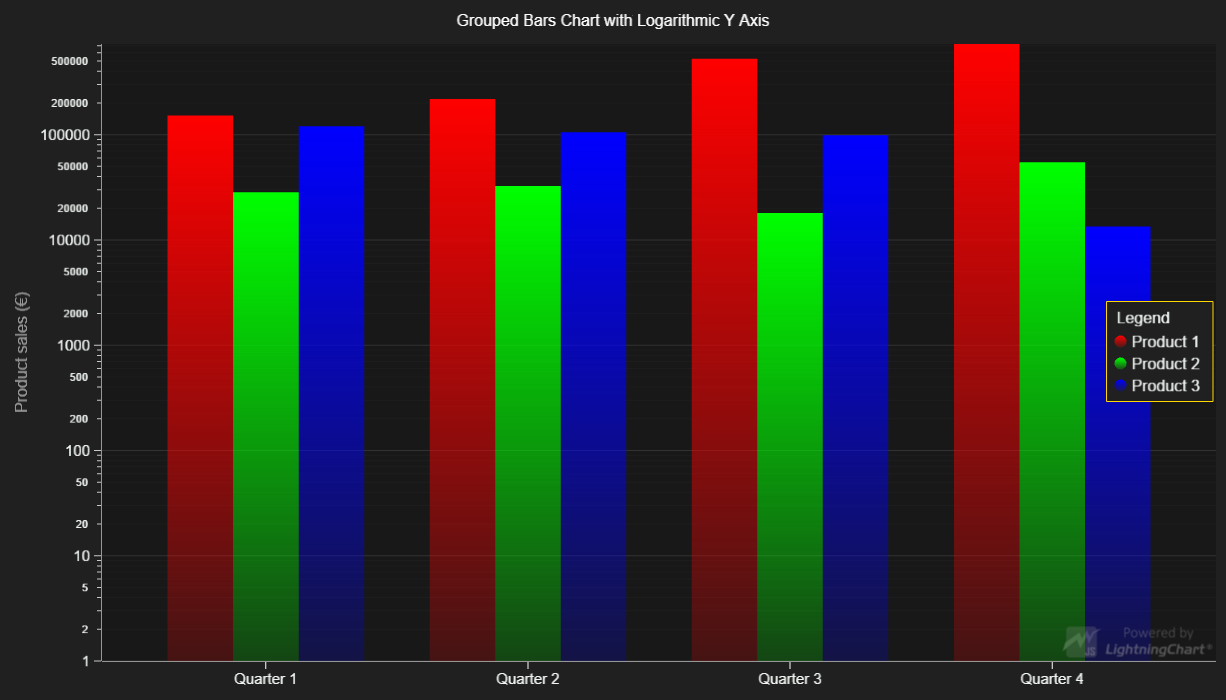
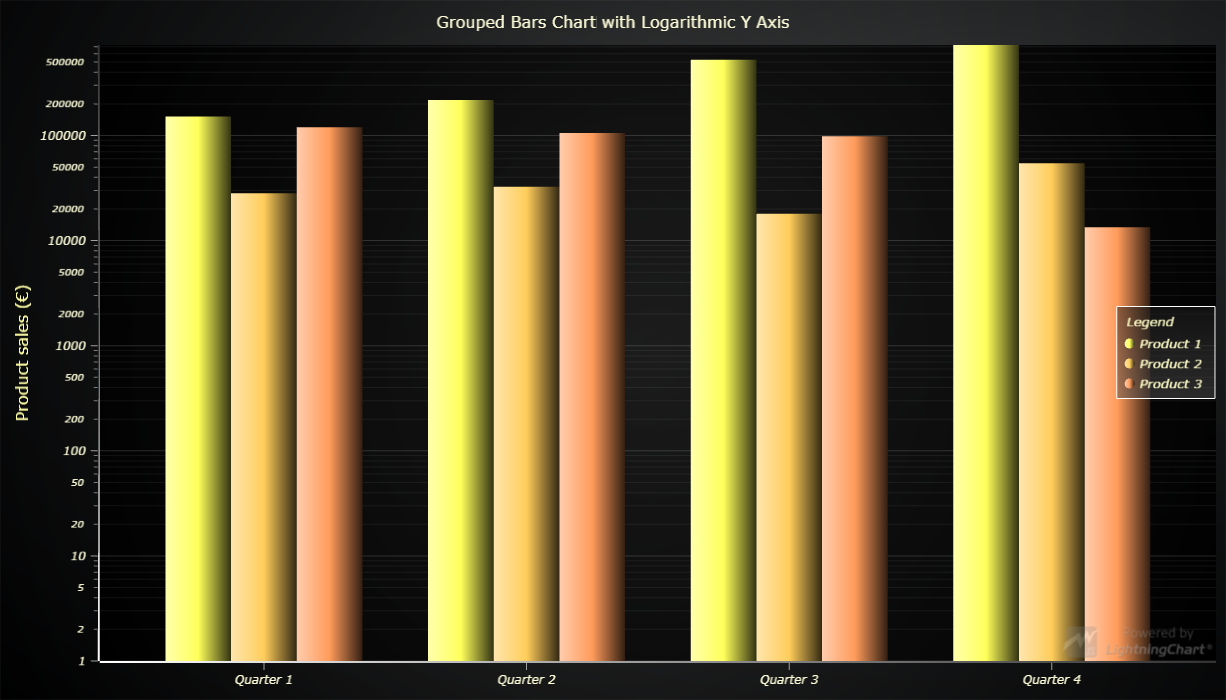
Update LCJS version

diff --git a/src/index.js b/src/index.js
@@ -7,14 +7,11 @@ const lcjs = require('@arction/lcjs')
 // Extract required parts from LightningChartJS.
 const {
     lightningChart,
-    LinearGradientFill,
-    ColorHSV,
     AutoCursorModes,
     UIOrigins,
     LegendBoxBuilders,
     AxisTickStrategies,
     emptyLine,
-    emptyFill,
     UIElementBuilders,
     Themes
 } = lcjs
@@ -40,7 +37,7 @@ const productsCount = groupedBarsValues.productNames.length
 // : Plot a Bar Chart using Rectangle Series :
 
 const chart = lightningChart().ChartXY({
-    // theme: Themes.dark
+    // theme: Themes.darkGold
     // Configure Y Axis as logarithmic.
     defaultAxisY: {
         type: 'logarithmic',
@@ -71,17 +68,7 @@ const yAxis = chart.getDefaultAxisY()
 
 // Create one Rectangle Series for each PRODUCT.
 const allProductsSeries = groupedBarsValues.productNames.map((productName, iProduct) => {
-    const color = ColorHSV( iProduct * 120 )
     const series = chart.addRectangleSeries()
-        .setDefaultStyle((figure) => figure
-            .setFillStyle(new LinearGradientFill({
-                angle: 0,
-                stops: [
-                    { offset: 0, color: color.setA(50) },
-                    { offset: 1, color: color },
-                ]
-            }))
-        )
         .setName(productName)
         .setCursorResultTableFormatter((builder, _, figure) => builder
             .addRow(`${productName} sales`)
@@ -127,4 +114,9 @@ xAxis.setInterval(-edgesMarginX, quartersCount * productsCount * barWidthX + (qu
 
 // Add LegendBox.
 const legend = chart.addLegendBox(LegendBoxBuilders.VerticalLegendBox)
+    // Dispose example UI elements automatically if they take too much space. This is to avoid bad UI on mobile / etc. devices.
+    .setAutoDispose({
+        type: 'max-width',
+        maxWidth: 0.30,
+    })
 legend.add(chart)

diff --git a/webpack.config.js b/webpack.config.js
@@ -69,7 +69,8 @@ module.exports = {
         }),
         new CopyWebpackPlugin({
             patterns: [
-                { from: './assets/**/*', to: './examples/assets', flatten: true, noErrorOnMissing: true }
+                { from: './assets/**/*', to: './examples/assets', flatten: true, noErrorOnMissing: true },
+                { from: './node_modules/@arction/lcjs/dist/resources', to: 'resources', noErrorOnMissing: true },
             ]
         })
     ]

diff --git a/README.md b/README.md
@@ -55,13 +55,13 @@ Direct developer email support can be purchased through a [Support Plan][4] or b
 © Arction Ltd 2009-2020. All rights reserved.
 
 
-[XY cartesian chart]: https://www.arction.com/lightningchart-js-api-documentation/v3.0.1/classes/chartxy.html
-[Linear Gradient Fill style]: https://www.arction.com/lightningchart-js-api-documentation/v3.0.1/classes/lineargradientfill.html
-[Color HSV factory]: https://www.arction.com/lightningchart-js-api-documentation/v3.0.1/globals.html#colorhsv
-[Autocursor modes]: https://www.arction.com/lightningchart-js-api-documentation/v3.0.1/enums/autocursormodes.html
-[UI origins]: https://www.arction.com/lightningchart-js-api-documentation/v3.0.1/globals.html#uiorigins
-[LegendBox builders]: https://www.arction.com/lightningchart-js-api-documentation/v3.0.1/globals.html#legendboxbuilders
-[Axis tick strategies]: https://www.arction.com/lightningchart-js-api-documentation/v3.0.1/globals.html#axistickstrategies
-[Empty line style]: https://www.arction.com/lightningchart-js-api-documentation/v3.0.1/globals.html#emptyline
-[Empty fill style]: https://www.arction.com/lightningchart-js-api-documentation/v3.0.1/globals.html#emptyfill
+[XY cartesian chart]: https://www.arction.com/lightningchart-js-api-documentation/v3.1.0/classes/chartxy.html
+[Linear Gradient Fill style]: https://www.arction.com/lightningchart-js-api-documentation/v3.1.0/classes/lineargradientfill.html
+[Color HSV factory]: https://www.arction.com/lightningchart-js-api-documentation/v3.1.0/globals.html#colorhsv
+[Autocursor modes]: https://www.arction.com/lightningchart-js-api-documentation/v3.1.0/enums/autocursormodes.html
+[UI origins]: https://www.arction.com/lightningchart-js-api-documentation/v3.1.0/globals.html#uiorigins
+[LegendBox builders]: https://www.arction.com/lightningchart-js-api-documentation/v3.1.0/globals.html#legendboxbuilders
+[Axis tick strategies]: https://www.arction.com/lightningchart-js-api-documentation/v3.1.0/globals.html#axistickstrategies
+[Empty line style]: https://www.arction.com/lightningchart-js-api-documentation/v3.1.0/globals.html#emptyline
+[Empty fill style]: https://www.arction.com/lightningchart-js-api-documentation/v3.1.0/globals.html#emptyfill
 
